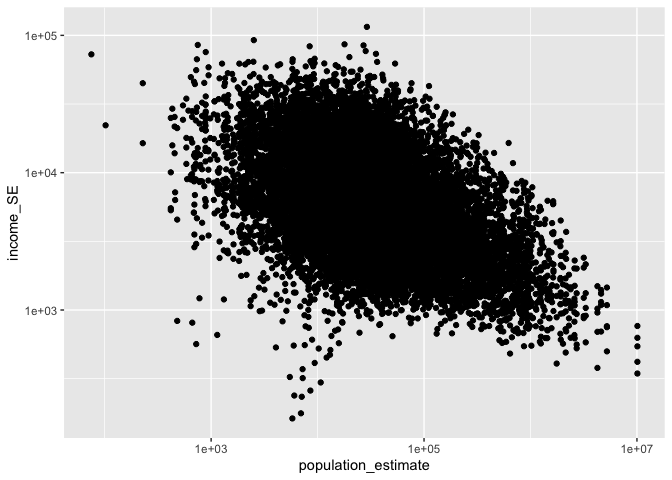
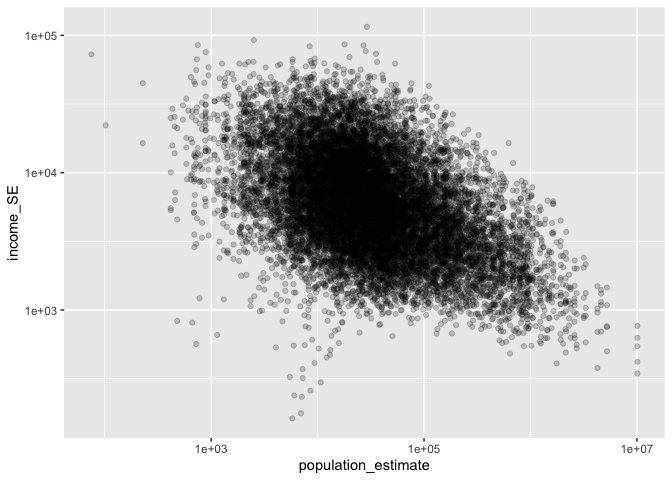
Fix challenge 09

diff --git a/challenges/c09-income-assignment.md b/challenges/c09-income-assignment.md
@@ -534,9 +534,10 @@ df_data %>%
   - Dukes and Nantucket have no 6 person families.
 - Can you confidently distinguish between household incomes in Suffolk
   county? Why or why not?
-  - No because a lot of the household incomes overlap and are similar.
-    Moreover, there is not a conisitent range each household income
-    stays in between different counties.
+  - No because the household incomes in Suffolk overlap and are
+    extremely close together. One income could fall into the range of
+    multiple households especially with from 4 to 6 people family
+    households.
 - Which counties have the widest confidence intervals?
   - Nantucket, Dukes, Berkshire, and Hampshire.
 
@@ -551,9 +552,9 @@ and uncertainty.
 ``` r
 df_data %>%
   ggplot(aes(x= population_estimate, y = income_SE)) + 
-  geom_point() + 
+  geom_point(alpha = .2) + 
   scale_x_log10() +
-  scale_y_log10()
+  scale_y_log10() 
 ```
 
     ## Warning: Removed 819 rows containing missing values (`geom_point()`).
@@ -564,9 +565,13 @@ df_data %>%
 
 - What *overall* trend do you see between `SE` and population? Why might
   this trend exist?
-  - The overall trend between SE and population is as the population
-    increases, the SE decreases. Larger data sets help calculate more
-    accurate means, thus creating a lower SE.
+  - There is no overall trend between SE and population because standard
+    error does not depend on population size, only sample size. Although
+    a larger population does not directly lead to a larger sample size,
+    the Census Bureau could collect data proportional to the target
+    population, thus a larger population would lead to a larger sample
+    size. This method of collecting data would create a correlation
+    between SE and population seen very roughly by the graph.
 - What does this *overall* trend tell you about the relative ease of
   studying small vs large counties?
   - Although it is more time consuming to initially collect data from
